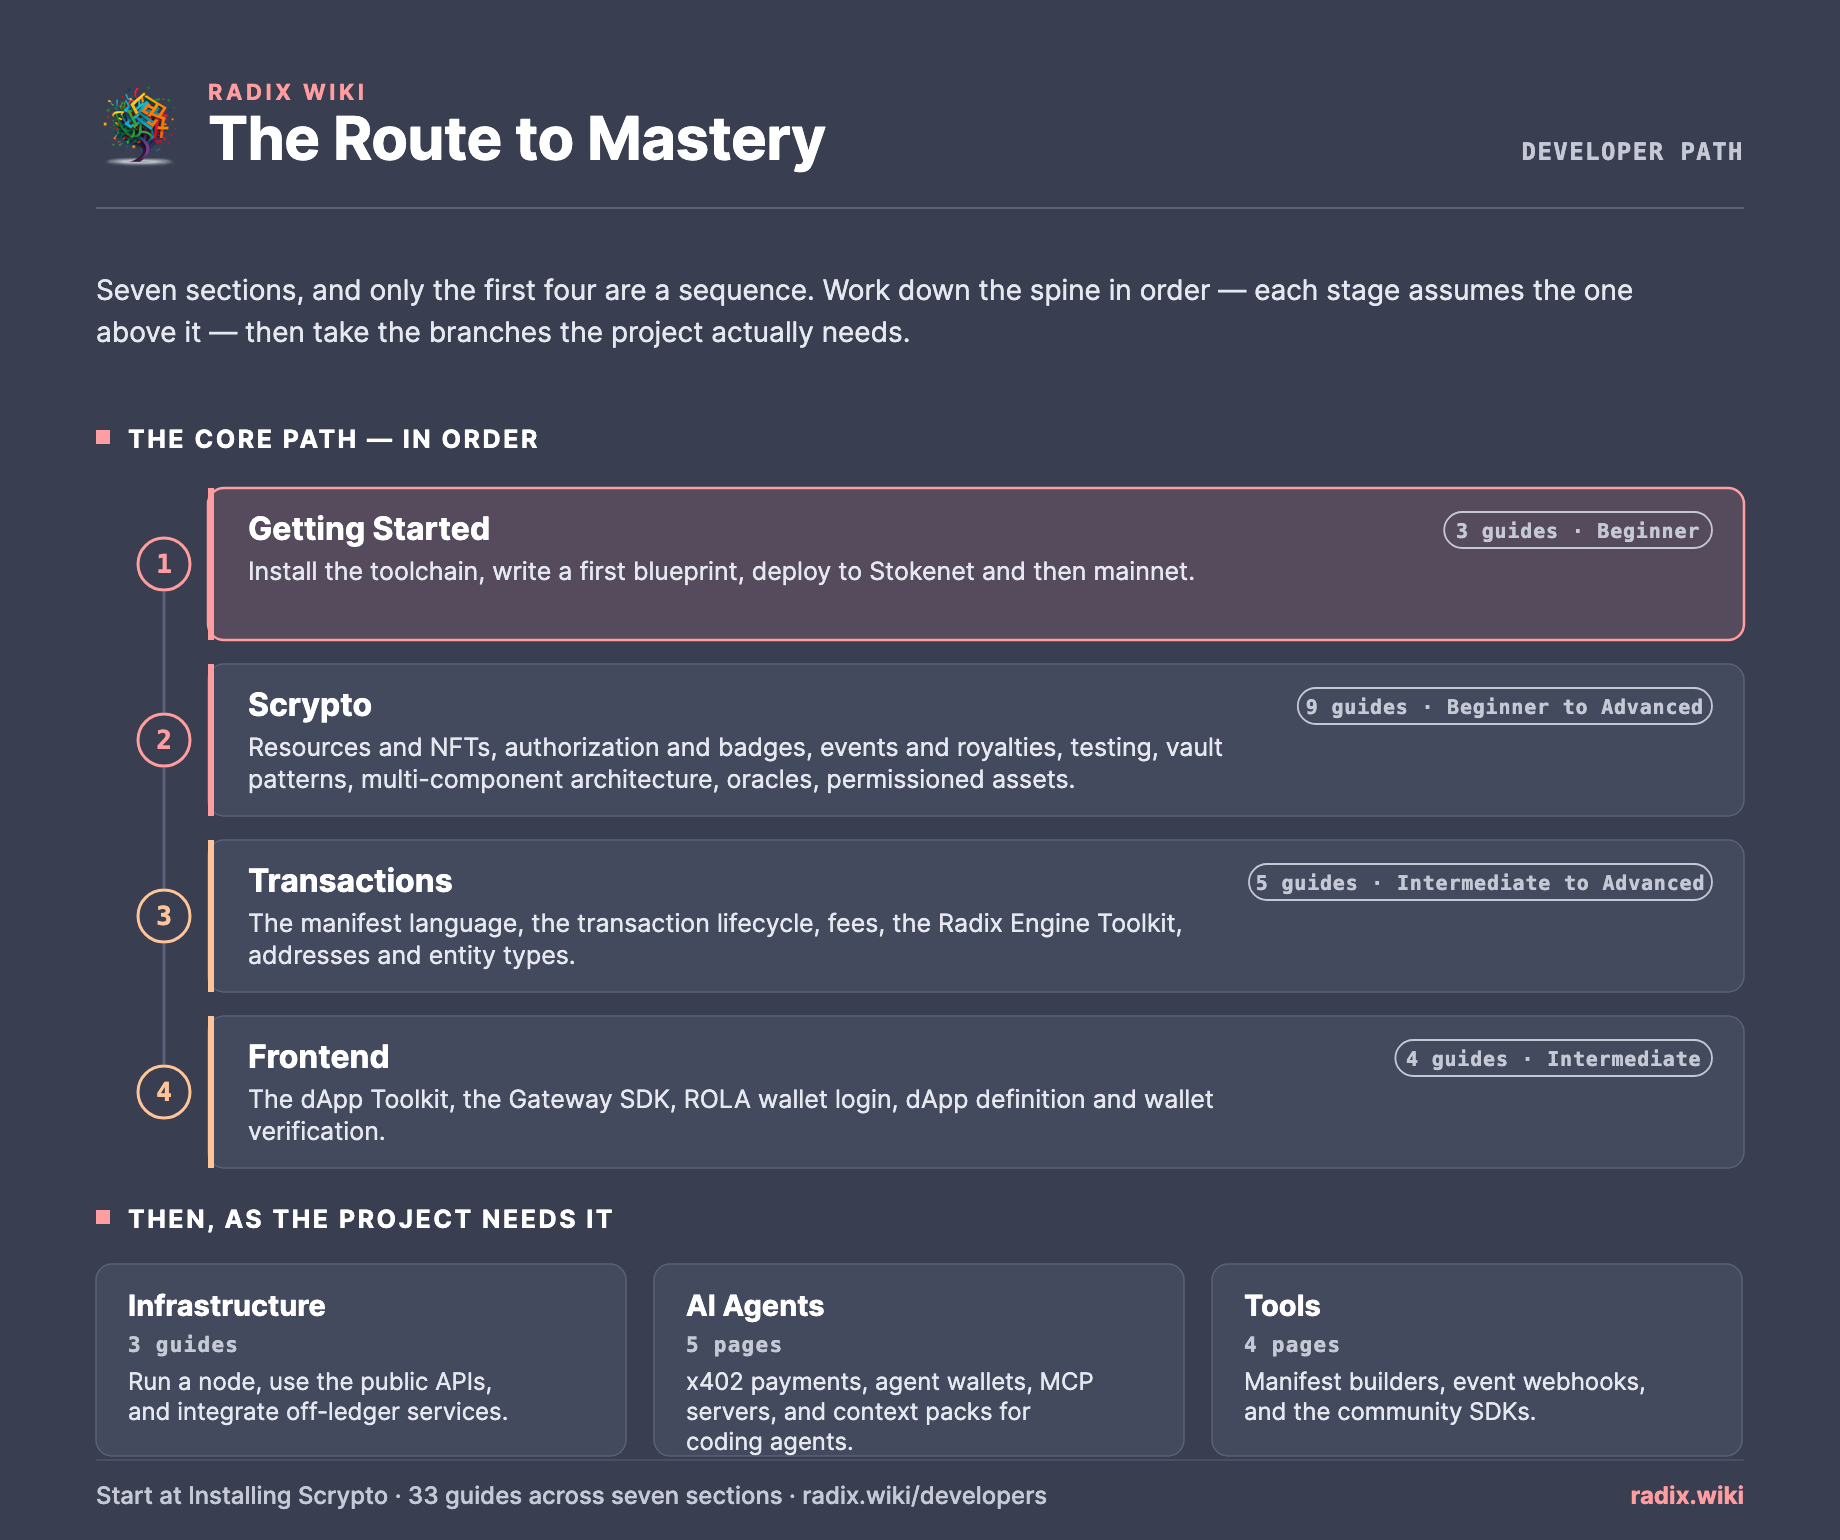
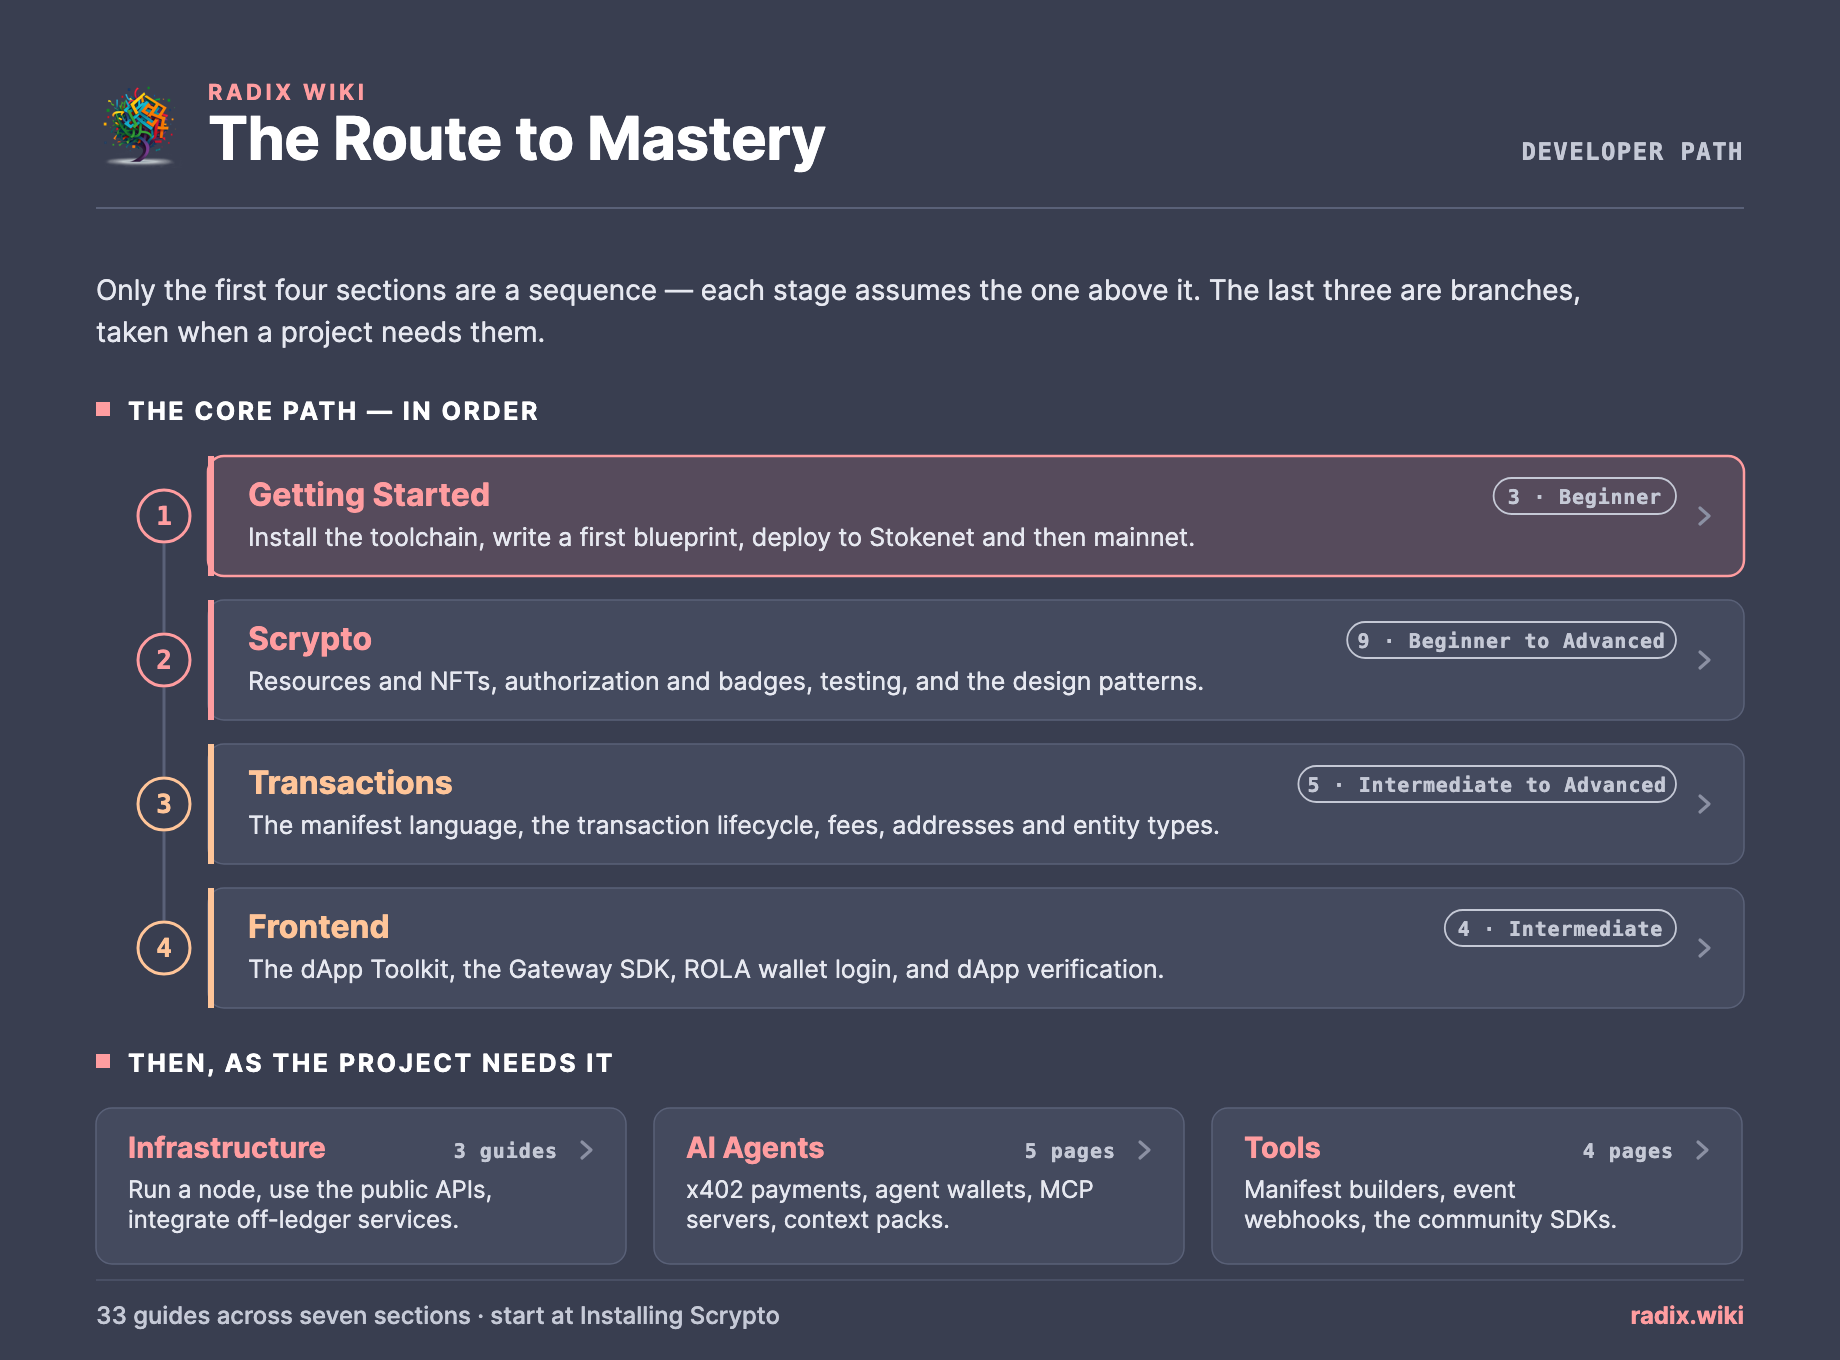
Merge "Where to start" into one clickable section
The two sections said the same thing in two registers: a hundred words of
prose enumerating the seven sections, then a figure drawing them. They are
one section now — a four-line lead and the map — and the map does the
enumerating, so the prose keeps only what a diagram cannot carry: that
manifests repay more attention than their position suggests.

The figure is navigation rather than a picture of it. Each of the seven
boxes is an SVG <a> to its section, the labels are drawn in accent and
carry a chevron so they read as links, and the whole thing is 90px shorter
for having one-line stage descriptions instead of two.

Three things that had to be true for the links to work:

- normaliseLinks replaces a text-less anchor's contents with a label
  derived from its href, so an <a> must wrap the card's <text>, never the
  <rect> alone.
- role="img" collapses a graphic to one node for assistive tech and takes
  the links with it; kit.figureBlock gains `interactive`, which makes it a
  labelled group instead.
- The prose anchor rule underlines descendant SVG <text>. The override
  needs an attribute selector to outweigh `a[href^="/"]`.

"Every box is a link" is deliberately not stated inside the SVG: the same
file renders as a social-card PNG where nothing is clickable, so the claim
lives in the figcaption.

Verified by clicking: the Scrypto box lands on /developers/scrypto.

diff --git a/src/styles/globals.css b/src/styles/globals.css
@@ -130,6 +130,12 @@
   .prose-content {
     a[href^="/"] { @apply text-accent font-medium decoration-accent/40 underline underline-offset-2 hover:text-accent-hover hover:decoration-accent-hover/60; }
     a[href^="http"] { @apply text-text underline underline-offset-2 decoration-text/30 hover:text-accent-hover hover:decoration-accent-hover/50; &::after { content: '\2009\2197'; font-size: 0.75em; } }
+    /* A clickable figure keeps its own affordance. SVG <text> inherits
+       text-decoration from an ancestor <a>, so the prose anchor rule above draws
+       a line under every label in the diagram; the external-link ::after glyph
+       has nowhere to render inside SVG either.
+       An attribute selector is needed to outweigh `a[href^="/"]` above. */
+    figure svg a[href] { @apply no-underline; &::after { content: none; } }
   }
 
   /* ===== HEADING PERMALINK ANCHORS ===== */
